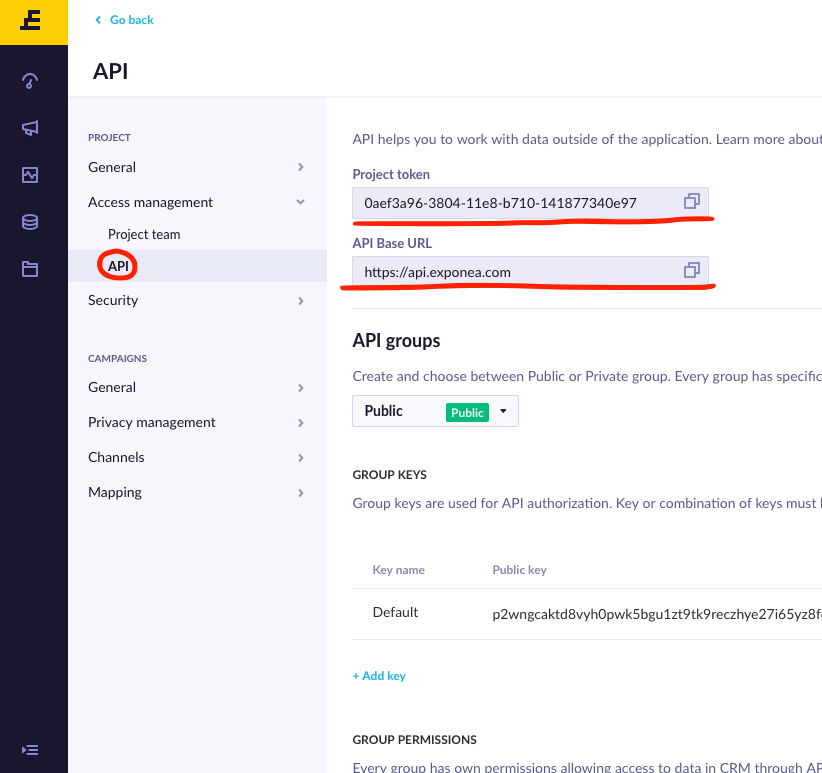
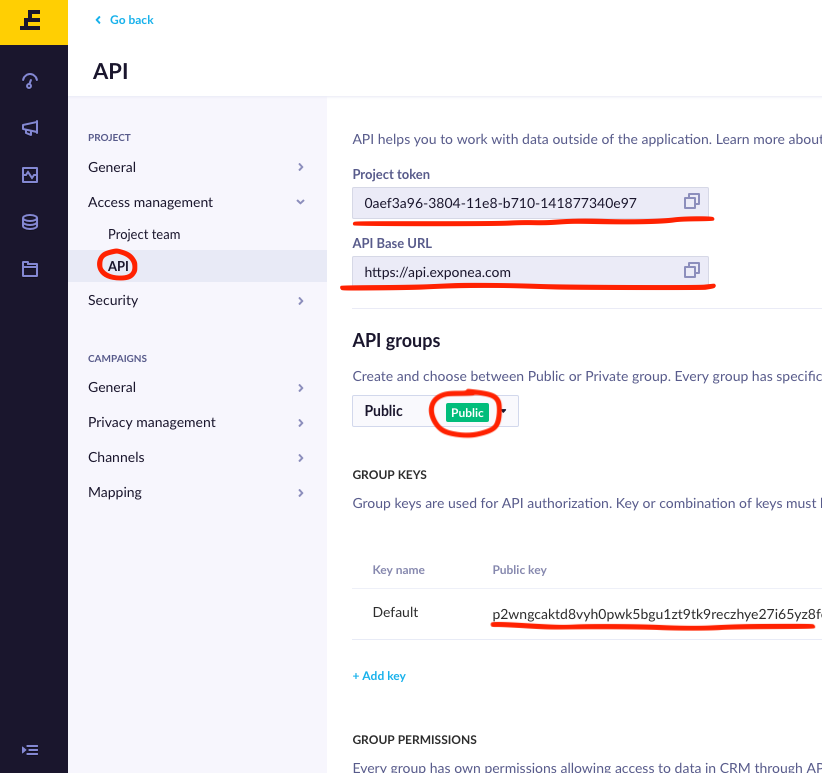
feat/Update documentation to mention public auth token

Changed region(s): [[0.6083, 0.8072, 1.0, 0.8383], [0.517, 0.4968, 0.6083, 0.5899]]

diff --git a/Documentation/Guide/CONFIGURATION.md b/Documentation/Guide/CONFIGURATION.md
@@ -8,10 +8,8 @@
 1. Open [Exponea Web app](https://app.exponea.com) and login using your credentials 
 ![](pics/config1.png)
 
-2. Choose your project in the top-left corner and navigate to Settings
+2. Choose your project in the top-right corner and navigate to Settings/Project Settings
 ![](pics/config2.png)
 
-3. In settings, navigate to Project/AccessManagement. There you can view or edit you `API Base URL` and `Project Token`.
+3. In Project settings, navigate to Access Management/API. On this page you can get your `API Base URL` and `Project Token`. You'll need a **Public group** `Authorization token` to configure Exponea SDK. More information about access keys can be found in [Exponea API Reference](https://docs.exponea.com/reference#access-keys)
 ![](pics/config3.png)
-
-4. Follow [this guide](https://docs.exponea.com/reference#basic-authentication) in order to get your Authorization Token

diff --git a/Documentation/CONFIG.md b/Documentation/CONFIG.md
@@ -9,9 +9,9 @@ You can configure the SDK providing a configuration file with configuration vari
 
 #### authorization
 
-* Two options: `none` and `.token(token)`.
-* Some features require specific authorization to be set, if it is not, they will fail gracefully and print an error.
-* For more information on how to get authorization tokens, please click [here](https://developers.exponea.com/reference#access-keys).
+* Options are `.none` or `.token(token)`.
+* Token is an Exponea **public** key. [Configuration guide](./Guide/CONFIGURATION.md) shows where to find it in the Exponea web app.
+* For more information, please see [Exponea API documentation](https://docs.exponea.com/reference#access-keys)
 
 #### baseUrl
 
